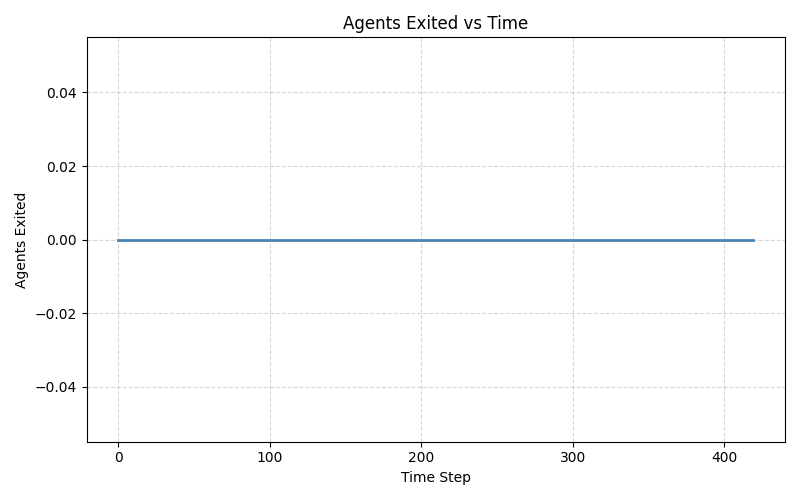
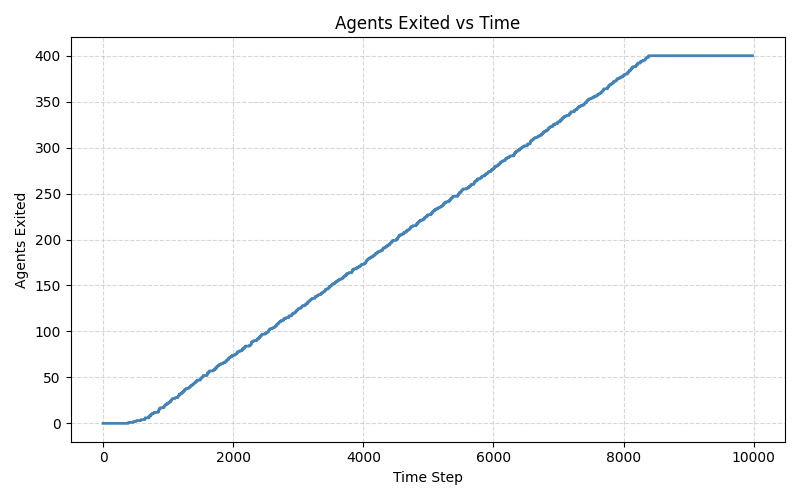
Add dynamic field functionality with deposit and update methods
- Implemented `deposit_dynamic_field` to add an amount to a specified cell in the dynamic field.
- Created `update_dynamic_field` to apply decay and update the dynamic field based on alpha and delta parameters.
- Introduced numpy for efficient array operations and padding.

diff --git a/src/agents.py b/src/agents.py
@@ -11,11 +11,12 @@ from config import RADIUS, CELL_SIZE, KD
 
 
 class Agents:
-    def __init__(self, room, static_field, position, velocity = 1, mass = 100):
+    def __init__(self, room, static_field, dynamic_field, position, velocity = 1, mass = 100):
         self.velocity = velocity
         self.room = room
         self.mass = mass
         self.static_field = static_field
+        self.dynamic_field = dynamic_field
         self.reached_exit = False
         self.position = pygame.Vector2(position)
 
@@ -40,9 +41,9 @@ class Agents:
         row, col = self._get_cell()
         GRID_ROWS, GRID_COLS = self.static_field.shape
 
-        if self.static_field[row, col] == 0:
-            self.reached_exit = True
-            return None
+        # If the agent is at the doorway, continue to a virtual cell outside.
+        if (row, col) in self.room["exit_cells"]:
+            return (-1, col)
         
         # Stochastic transition: only consider unoccupied neighbors closer to exit
         neighbors = []
@@ -57,14 +58,11 @@ class Agents:
                     # n_ij is 0 if occupied and 1 if not
                     # d_ij is 1 if not wall and 0 if wall
                     static_ij = self.static_field[nr, nc] - self.static_field[row, col]
-
-
-                    dynamic_ij = 0
+                    dynamic_ij = self.dynamic_field[nr, nc] - self.dynamic_field[row, col]
                     occupied_ij = 1 if (nr, nc) in occupied else 0
                     wall_ij = 0 if (nr, nc) in wall_cells else 1
 
-                    # NEED TO INCORPORATE DYNAMIC FIELD FOR CORRECT IMPLEMENTATION
-                    p_ij = math.exp(KD * static_ij) * (1 - occupied_ij) * wall_ij
+                    p_ij = math.exp(KD * static_ij + dynamic_ij) * (1 - occupied_ij) * wall_ij
                     if p_ij > 0:
                         neighbors.append(((nr, nc), p_ij))
 
@@ -82,10 +80,20 @@ class Agents:
         return best_cell
     
     def move_to(self, cell):
-        target = pygame.Vector2(
-            self.room["x"] + cell[1] * CELL_SIZE + CELL_SIZE / 2,
-            self.room["y"] + cell[0] * CELL_SIZE + CELL_SIZE / 2,)
+        if cell[0] < 0:
+            target = pygame.Vector2(
+                self.room["x"] + cell[1] * CELL_SIZE + CELL_SIZE / 2,
+                self.room["y"] - CELL_SIZE / 2,
+            )
+        else:
+            target = pygame.Vector2(
+                self.room["x"] + cell[1] * CELL_SIZE + CELL_SIZE / 2,
+                self.room["y"] + cell[0] * CELL_SIZE + CELL_SIZE / 2,
+            )
         direction = target - self.position
         if direction.length() > 0:
             direction = direction.normalize()
         self.position += direction * self.velocity
+
+        if self.position.y < self.room["y"]:
+            self.reached_exit = True

diff --git a/app.py b/app.py
@@ -1,11 +1,14 @@
 import pygame, random
+import numpy as np
 from src.environment import DefaultRoom
 #from src.gradient_descent_method import Agents
 # from tests.test_bfs import static_field
 from src.agents import Agents
 from src.static_field import static_field
+from src.dynamic_field import deposit_dynamic_field, update_dynamic_field
 from config import GRID_COLS, GRID_ROWS, CELL_SIZE
 from datavisual import agents_exit_plot
+import matplotlib.pyplot as plt
 
 # --- Setup ---
 pygame.init()
@@ -17,6 +20,7 @@ running = True
 center = pygame.Vector2(screen.get_width() / 2, screen.get_height() / 2)
 room = DefaultRoom(screen, center)
 field = static_field(GRID_COLS, GRID_ROWS, room["exit_cells"], room["wall_cells"])
+dynamic_field = np.zeros_like(field, dtype=float)
 
 # Spawn agents at unique cell centers so no two agents share a cell at start
 random.seed(90)
@@ -26,7 +30,7 @@ all_cells = [
 ]
 random.shuffle(all_cells)
 agents = [
-    Agents(room, field, position=(
+    Agents(room, field, dynamic_field, position=(
         room["x"] + c * CELL_SIZE + CELL_SIZE / 2,
         room["y"] + r * CELL_SIZE + CELL_SIZE / 2,
     ))
@@ -35,6 +39,7 @@ agents = [
 font = pygame.font.SysFont(None, 36)
 history = []
 step = 0
+flow_data = []  # This should be populated with actual flow rate data during the simulation
 
 # main loop
 while running:
@@ -60,9 +65,19 @@ while running:
             intention.setdefault(cell, []).append(agent)
 
     # Resolve conflicts: if multiple agents want the same cell, pick one at random
+    moved_cells = []
     for cell, competing in intention.items():
         winner = random.choice(competing)
+        previous_cell = winner._get_cell()
         winner.move_to(cell)
+        moved_cells.append((previous_cell, cell))
+
+    for previous_cell, _ in moved_cells:
+        deposit_dynamic_field(dynamic_field, previous_cell)
+
+    dynamic_field = update_dynamic_field(dynamic_field)
+    for agent in agents:
+        agent.dynamic_field = dynamic_field
 
     agents = [a for a in agents if not a.reached_exit]
     history.append((step, 0 + len(agents)))
@@ -75,7 +90,7 @@ while running:
     screen.blit(text, (10, 10))
     pygame.display.flip()
 
-    clock.tick(60)
+    clock.tick(0)
 
 pygame.quit()
 

diff --git a/src/dynamic_field.py b/src/dynamic_field.py
@@ -1,0 +1,25 @@
+import numpy as np
+
+from config import ALPHA, DELTA
+
+
+def deposit_dynamic_field(dynamic_field, cell, amount=1.0):
+    row, col = cell
+    if 0 <= row < dynamic_field.shape[0] and 0 <= col < dynamic_field.shape[1]:
+        dynamic_field[row, col] += amount
+
+
+def update_dynamic_field(dynamic_field, alpha=ALPHA, delta=DELTA):
+    decayed = dynamic_field * (1 - delta)
+    padded = np.pad(decayed, 1, mode="constant")
+
+    updated = decayed * (1 - alpha)
+    share = alpha / 4.0
+    updated += share * (
+        padded[:-2, 1:-1]
+        + padded[2:, 1:-1]
+        + padded[1:-1, :-2]
+        + padded[1:-1, 2:]
+    )
+
+    return updated

diff --git a/datavisual.py b/datavisual.py
@@ -1,6 +1,7 @@
 import matplotlib.pyplot as plt
 from src.static_field import static_field
 from config import GRID_ROWS, GRID_COLS, CELL_SIZE, WIDTH
+import numpy as np
 
 exit_width = 40
 exitX = (WIDTH - exit_width) // 2
@@ -32,3 +33,4 @@ def agents_exit_plot(history, path="agents_v_time.png"):
     plt.tight_layout()
     plt.savefig(path)
     plt.close()
+
